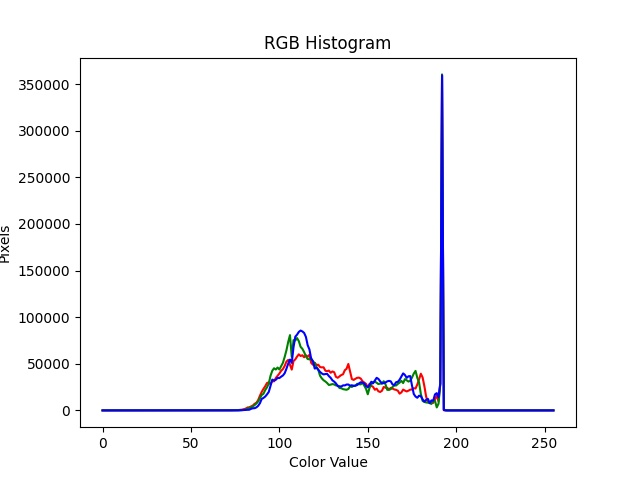
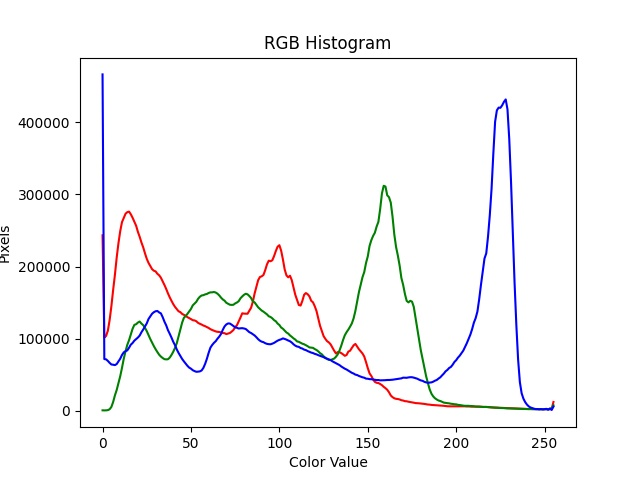
added static images back. updated . changed css

diff --git a/project/static/project/style.css b/project/static/project/style.css
@@ -42,7 +42,7 @@ button:active {
 
 #img_main {
     width: 1000px;
-    background-image: url("./images/upload.jpg");
+    background-image: url("./images/upload.png");
     background-repeat: no-repeat;
     background-size: contain;
 }
@@ -50,6 +50,9 @@ button:active {
 #img_histogram{
     width: 400px;
     height: 300px;
+    background-image: url("./images/histogram.png");
+    background-repeat: no-repeat;
+    background-size: contain;
 }
 
 .slidecontainer {

diff --git a/project/ImageAdjuster.py b/project/ImageAdjuster.py
@@ -21,7 +21,7 @@ def _base(is_gray):
         image.close()
     else:
         image = Img.open('./media/images/project_image.jpg')
-        image.save(EDIT_IMG_PATH)
+        image.save('edit.jpg')
         image.close()
 
 
